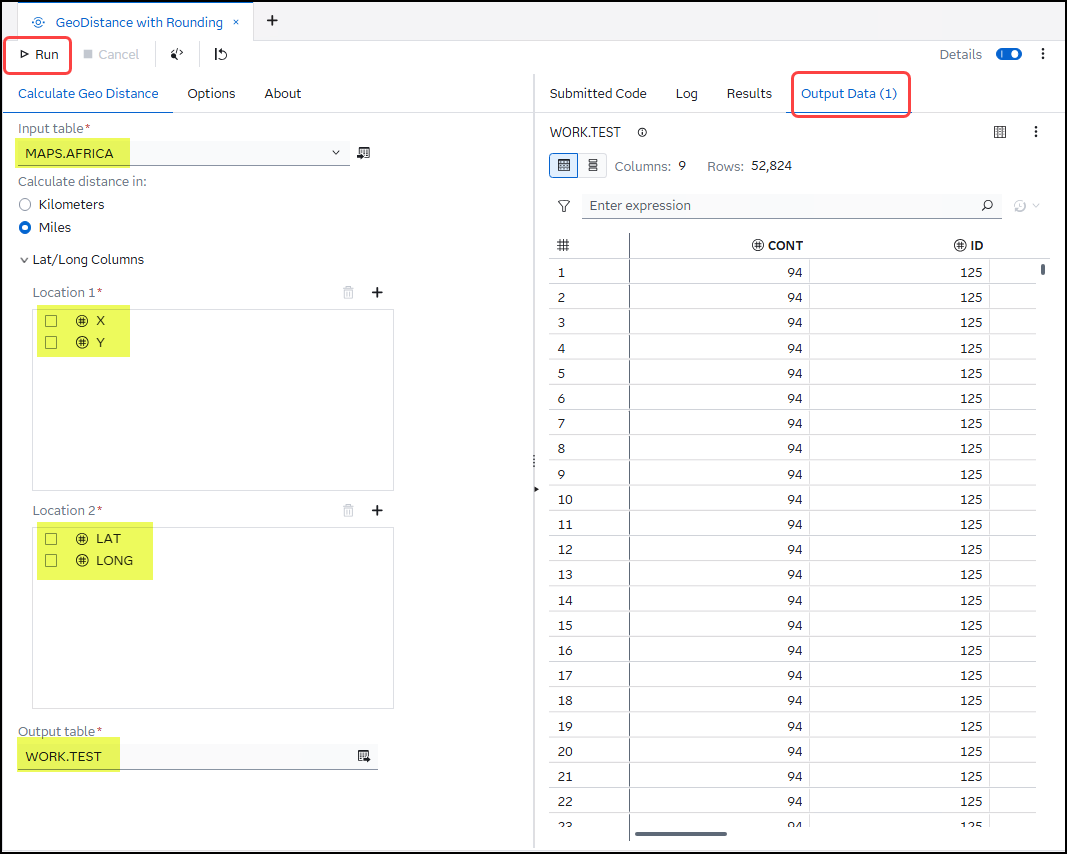
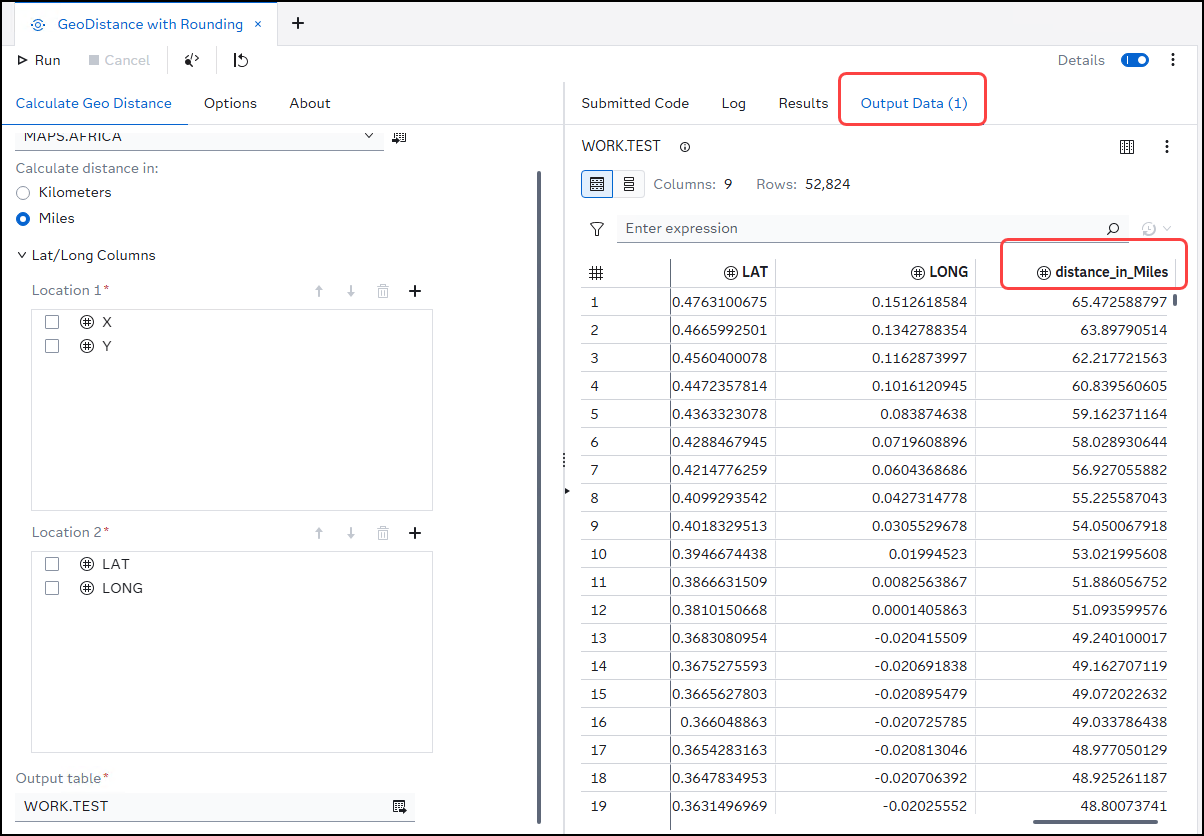
updates

diff --git a/Create_Custom_Step.md b/Create_Custom_Step.md
@@ -276,17 +276,17 @@ Select columns **X** and **Y** for *Location 1* and columns **LAT** and **LONG**
 Select **WORK.TEST** as the output table.  Use ![Output Table](images/SelectOutputTable.png) to select the output table.
  > &#9998; You will need to type the table name of **TEST** since it does not already exist in the **WORK** library.
 
-**Run** the custom step.
+**Run** the custom step and review the *Output Data* tab.
 
-![](images/CSTESTResults.png)
+![Output Data tab](images/CSTESTResults.png)
 
 View the resulting **TEST** table in the **WORK** library.  Select ![Libraries](images/LibrariesIcon.png) to view the library connections.
 
-![](images/WorkTestResults.png)
-
-Play around with different options on the **Options** tab of the custom step.
+![WORK.TEST Table](images/WorkTestResults.png)
 
 **Close** the *TEST* table and the custom step when done.
+
+If time permits, play around with different options on the **Options** tab of the custom step.
 
 <br>
 <br>
